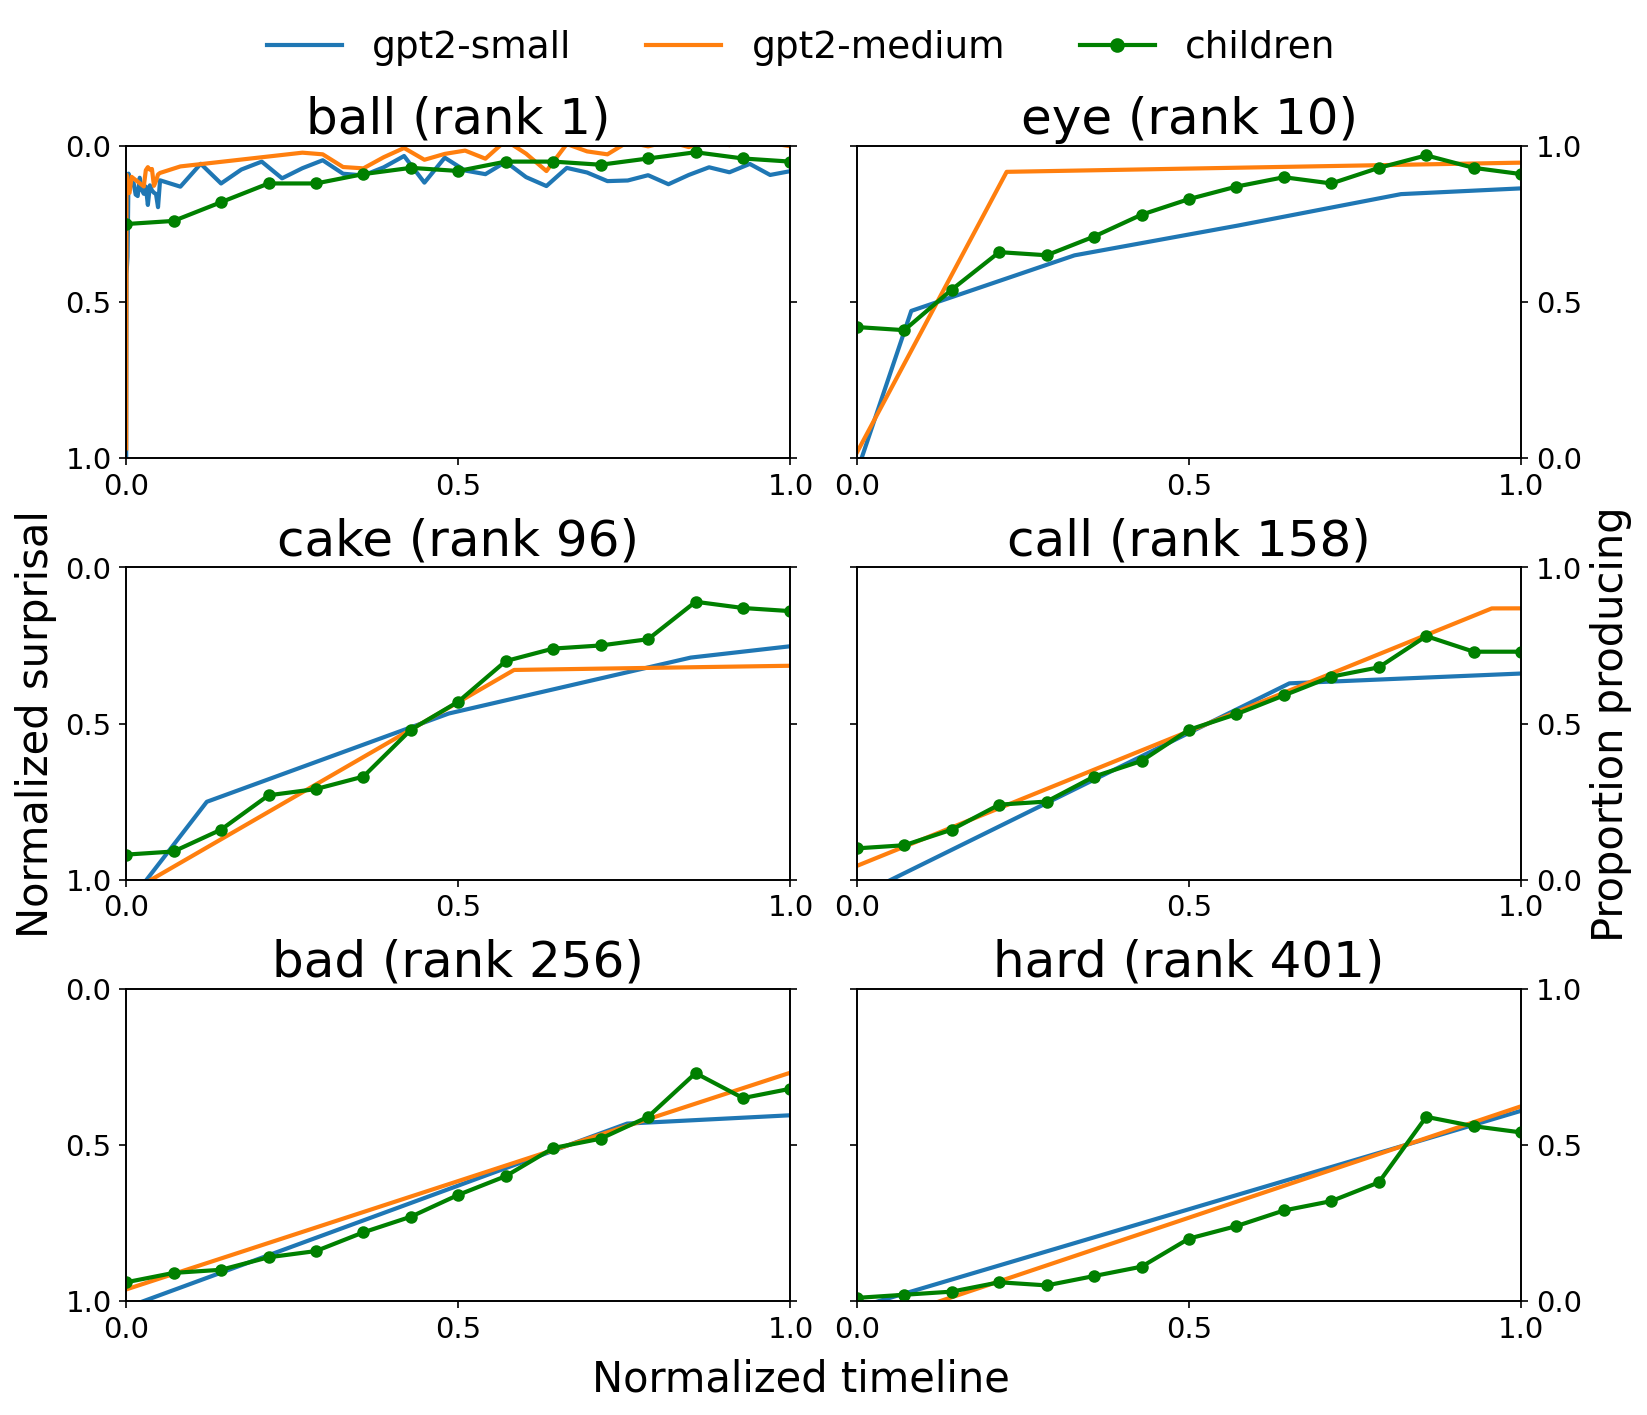
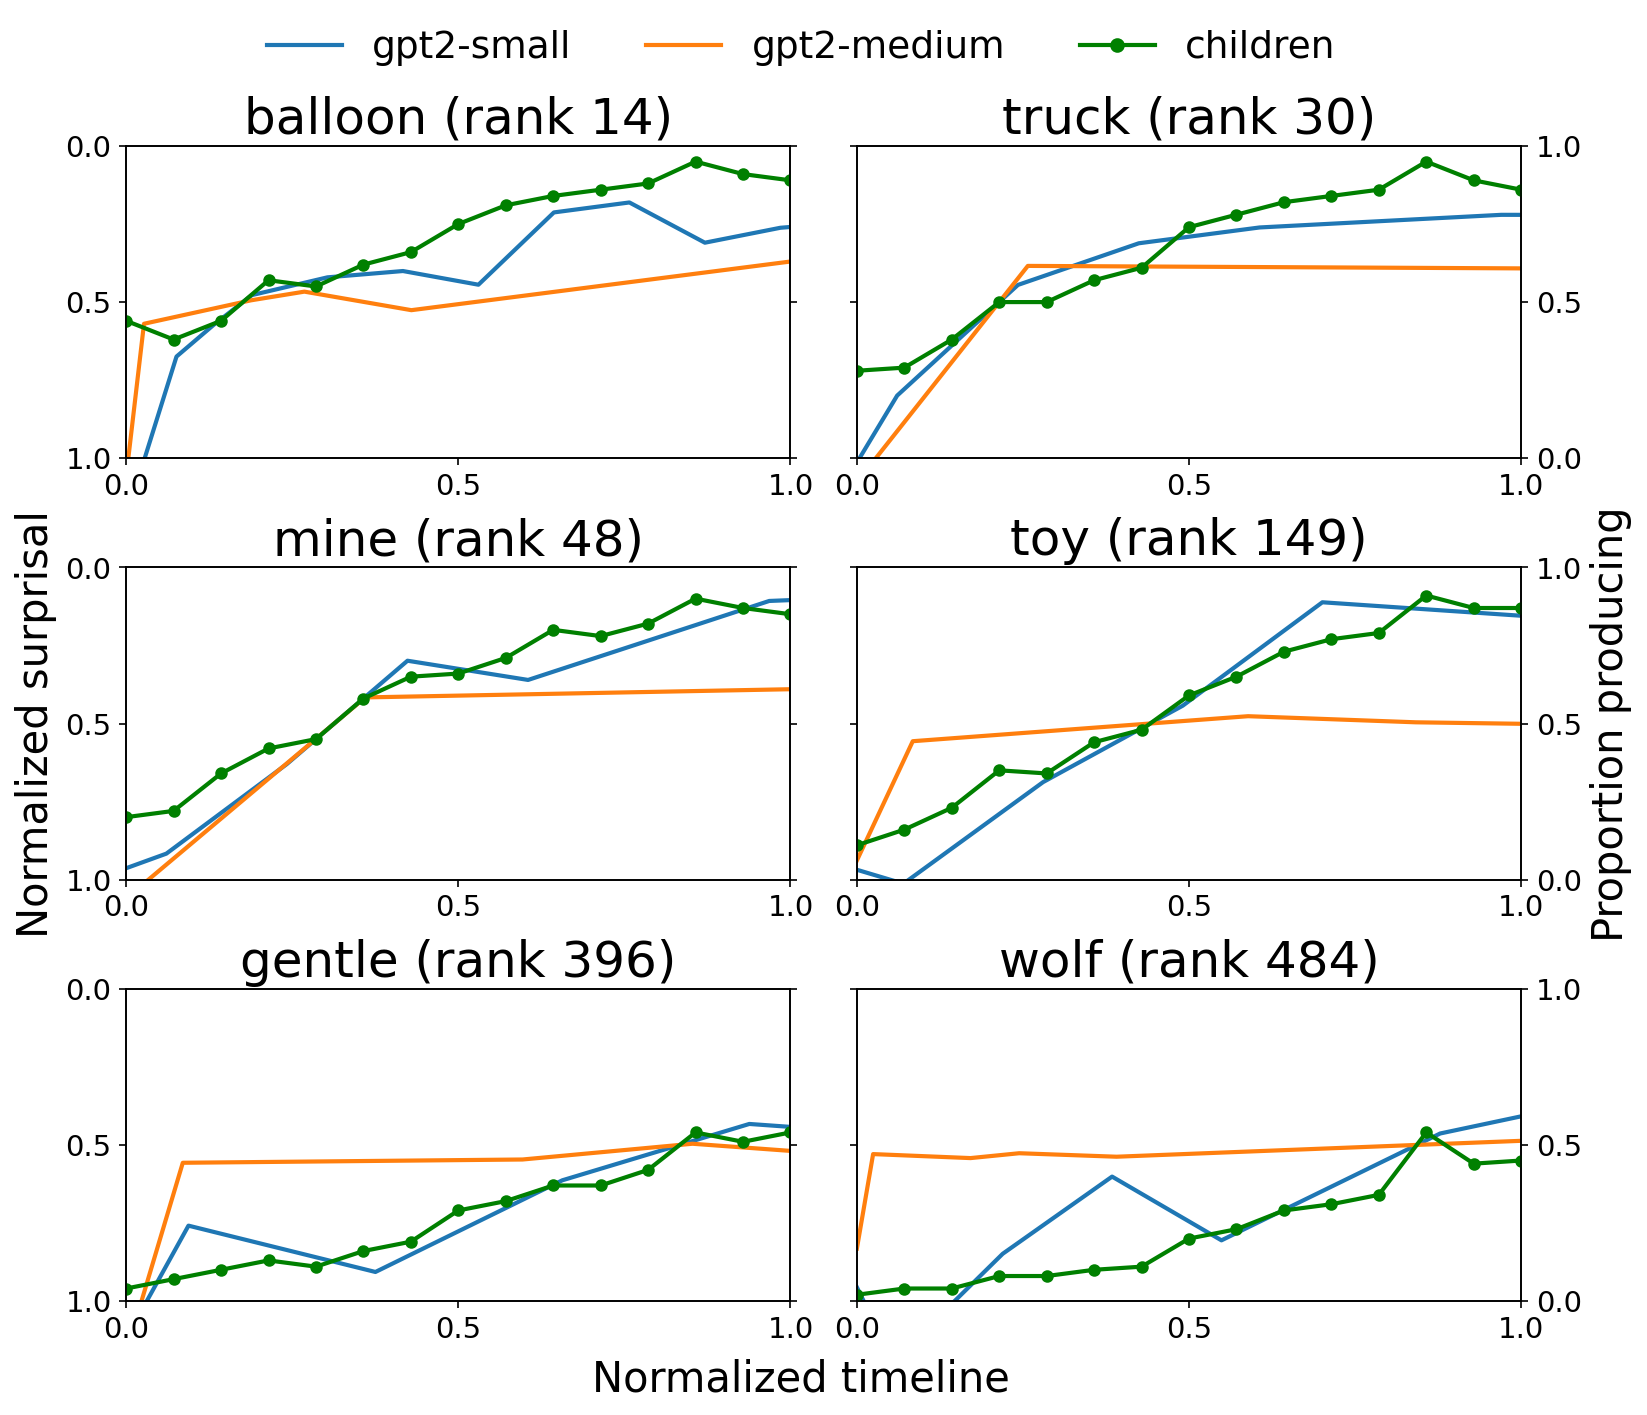
paper figs

diff --git a/src/experiments/plot.py b/src/experiments/plot.py
@@ -426,203 +426,193 @@ def main():
     else:
         months_norm = np.zeros_like(months_arr)
 
-    # for w in simple_ranking:
-    #     if w not in word_to_curve:
-    #         continue
-    #     child_curve = word_to_curve[w]
-    #     if not np.isfinite(child_curve).any():
-    #         continue
-    #     s_small = np.array(small_surpr[w], dtype=float)
-    #     s_medium = np.array(medium_surpr[w], dtype=float)
-    #     if not (np.isfinite(s_small).any() or np.isfinite(s_medium).any()):
-    #         continue
+    for w in simple_ranking:
+        if w not in word_to_curve:
+            continue
+        child_curve = word_to_curve[w]
+        if not np.isfinite(child_curve).any():
+            continue
+        s_small = np.array(small_surpr[w], dtype=float)
+        s_medium = np.array(medium_surpr[w], dtype=float)
+        if not (np.isfinite(s_small).any() or np.isfinite(s_medium).any()):
+            continue
 
-    #     steps_small_arr = np.array(steps_small, dtype=float)
-    #     steps_medium_arr = np.array(steps_medium, dtype=float)
+        steps_small_arr = np.array(steps_small, dtype=float)
+        steps_medium_arr = np.array(steps_medium, dtype=float)
 
-    #     s_small_crop, steps_small_crop, thr_small, idx_cross_small = crop_with_threshold(
-    #         s_small, steps_small_arr, args.baseline_bits, margin_idx
-    #     )
-    #     s_medium_crop, steps_medium_crop, thr_medium, idx_cross_medium = crop_with_threshold(
-    #         s_medium, steps_medium_arr, args.baseline_bits, margin_idx
-    #     )
+        s_small_crop, steps_small_crop, thr_small, idx_cross_small = crop_with_threshold(
+            s_small, steps_small_arr, args.baseline_bits, margin_idx
+        )
+        s_medium_crop, steps_medium_crop, thr_medium, idx_cross_medium = crop_with_threshold(
+            s_medium, steps_medium_arr, args.baseline_bits, margin_idx
+        )
 
-    #     if s_small_crop is None and s_medium_crop is None:
-    #         continue
+        if s_small_crop is None and s_medium_crop is None:
+            continue
 
-    #     fig, axes = plt.subplots(1, 3, figsize=(12, 3))
+        fig, axes = plt.subplots(1, 3, figsize=(12, 3))
 
-    #     if s_small_crop is not None and len(s_small_crop) > 0:
-    #         axes[0].plot(steps_small_crop, s_small_crop, label="gpt2-small")
-    #         if thr_small is not None:
-    #             axes[0].axhline(thr_small, linestyle="--", linewidth=1, color="cornflowerblue")
-    #     if s_medium_crop is not None and len(s_medium_crop) > 0:
-    #         axes[0].plot(steps_medium_crop, s_medium_crop, label="gpt2-medium")
-    #         if thr_medium is not None:
-    #             axes[0].axhline(thr_medium, linestyle="--", linewidth=1, color="orange")
+        if s_small_crop is not None and len(s_small_crop) > 0:
+            axes[0].plot(steps_small_crop, s_small_crop, label="gpt2-small")
+            if thr_small is not None:
+                axes[0].axhline(thr_small, linestyle="--", linewidth=1, color="cornflowerblue")
+        if s_medium_crop is not None and len(s_medium_crop) > 0:
+            axes[0].plot(steps_medium_crop, s_medium_crop, label="gpt2-medium")
+            if thr_medium is not None:
+                axes[0].axhline(thr_medium, linestyle="--", linewidth=1, color="orange")
 
-    #     axes[0].set_xlabel("Step")
-    #     axes[0].set_ylabel("Surprisal (bits)")
-    #     axes[0].set_title(f"{w} - LLM surprisal")
-    #     axes[0].legend()
-    #     axes[0].invert_yaxis()
+        axes[0].set_xlabel("Step")
+        axes[0].set_ylabel("Surprisal (bits)")
+        axes[0].set_title(f"{w} - LLM surprisal")
+        axes[0].legend()
+        axes[0].invert_yaxis()
 
-    #     axes[1].plot(months, child_curve, marker="o")
-    #     axes[1].axhline(0.5, linestyle="--", linewidth=1, color="cornflowerblue")
-    #     axes[1].set_xlabel("Age (months)")
-    #     axes[1].set_ylabel("Proportion producing")
-    #     axes[1].set_ylim(0.0, 1.0)
-    #     axes[1].set_title(f"{w} - Children")
+        axes[1].plot(months, child_curve, marker="o")
+        axes[1].axhline(0.5, linestyle="--", linewidth=1, color="cornflowerblue")
+        axes[1].set_xlabel("Age (months)")
+        axes[1].set_ylabel("Proportion producing")
+        axes[1].set_ylim(0.0, 1.0)
+        axes[1].set_title(f"{w} - Children")
 
-    #     ax3 = axes[2]
-    #     ax3b = ax3.twinx()
+        ax3 = axes[2]
+        ax3b = ax3.twinx()
 
-    #     # Align AoA
-    #     child_aoa_x = None
-    #     if w in child_interp_aoa:
-    #         child_aoa_month = child_interp_aoa[w]
-    #         if months_arr.size > 1:
-    #             child_aoa_x = (child_aoa_month - months_arr.min()) / (months_arr.max() - months_arr.min())
-    #             child_aoa_x = np.clip(child_aoa_x, 0.0, 1.0)
-    #     else:
-    #         child_mask = np.isfinite(child_curve)
-    #         if child_mask.any():
-    #             first_valid_val = child_curve[child_mask][0]
-    #             if first_valid_val >= 0.5:
-    #                 child_aoa_x = 0.0
-    #             else:
-    #                 plt.close(fig)
-    #                 continue
+        # Align AoA
+        child_aoa_x = None
+        if w in child_interp_aoa:
+            child_aoa_month = child_interp_aoa[w]
+            if months_arr.size > 1:
+                child_aoa_x = (child_aoa_month - months_arr.min()) / (months_arr.max() - months_arr.min())
+                child_aoa_x = np.clip(child_aoa_x, 0.0, 1.0)
+        else:
+            child_mask = np.isfinite(child_curve)
+            if child_mask.any():
+                first_valid_val = child_curve[child_mask][0]
+                if first_valid_val >= 0.5:
+                    child_aoa_x = 0.0
+                else:
+                    plt.close(fig)
+                    continue
 
-    #     if child_aoa_x is None:
-    #         plt.close(fig)
-    #         continue
+        if child_aoa_x is None:
+            plt.close(fig)
+            continue
 
-    #     child_mask = np.isfinite(child_curve)
-    #     if child_mask.any():
-    #         ax3b.plot(months_norm[child_mask], child_curve[child_mask], marker="o", color="green", label="children")
+        child_mask = np.isfinite(child_curve)
+        if child_mask.any():
+            ax3b.plot(months_norm[child_mask], child_curve[child_mask], marker="o", color="green", label="children")
 
-    #     # Normalize surprisal curves so threshold is at 0.5
-    #     if thr_small is not None and np.isfinite(s_small).any():
-    #         s_small_max = np.nanmax(s_small)
-    #         s_small_range = s_small_max - thr_small
-    #         if s_small_range > 0:
-    #             s_small_norm = 0.5 + 0.5 * (thr_small - s_small) / s_small_range
-    #         else:
-    #             s_small_norm = np.full_like(s_small, 0.5)
-    #     else:
-    #         s_small_norm = None
+        # Normalize surprisal curves so threshold is at 0.5
+        if thr_small is not None and np.isfinite(s_small).any():
+            s_small_max = np.nanmax(s_small)
+            s_small_range = s_small_max - thr_small
+            if s_small_range > 0:
+                s_small_norm = 0.5 + 0.5 * (thr_small - s_small) / s_small_range
+            else:
+                s_small_norm = np.full_like(s_small, 0.5)
+        else:
+            s_small_norm = None
 
-    #     if thr_medium is not None and np.isfinite(s_medium).any():
-    #         s_medium_max = np.nanmax(s_medium)
-    #         s_medium_range = s_medium_max - thr_medium
-    #         if s_medium_range > 0:
-    #             s_medium_norm = 0.5 + 0.5 * (thr_medium - s_medium) / s_medium_range
-    #         else:
-    #             s_medium_norm = np.full_like(s_medium, 0.5)
-    #     else:
-    #         s_medium_norm = None
+        if thr_medium is not None and np.isfinite(s_medium).any():
+            s_medium_max = np.nanmax(s_medium)
+            s_medium_range = s_medium_max - thr_medium
+            if s_medium_range > 0:
+                s_medium_norm = 0.5 + 0.5 * (thr_medium - s_medium) / s_medium_range
+            else:
+                s_medium_norm = np.full_like(s_medium, 0.5)
+        else:
+            s_medium_norm = None
 
-    #     # Plot normalized surprisal
-    #     x_small_norm = normalize_x_aligned(steps_small_arr, idx_cross_small, child_aoa_x)
-    #     ax3.plot(x_small_norm, s_small_norm, label="gpt2-small")
-    #     x_medium_norm = normalize_x_aligned(steps_medium_arr, idx_cross_medium, child_aoa_x)
-    #     ax3.plot(x_medium_norm, s_medium_norm, label="gpt2-medium")
-    #     ax3.set_ylim(0.0, 1.0)
+        # Plot normalized surprisal
+        x_small_norm = normalize_x_aligned(steps_small_arr, idx_cross_small, child_aoa_x)
+        ax3.plot(x_small_norm, s_small_norm, label="gpt2-small")
+        x_medium_norm = normalize_x_aligned(steps_medium_arr, idx_cross_medium, child_aoa_x)
+        ax3.plot(x_medium_norm, s_medium_norm, label="gpt2-medium")
+        ax3.set_ylim(0.0, 1.0)
 
-    #     ax3.set_xlim(0.0, 1.0)
-    #     ax3.set_xlabel("Normalized timeline")
-    #     ax3.set_ylabel("Surprisal (bits)")
-    #     ax3b.set_ylabel("Proportion producing")
-    #     ax3b.set_ylim(0.0, 1.0)
-    #     ax3.set_title(f"{w} - Normalized aligned overlay")
+        ax3.set_xlim(0.0, 1.0)
+        ax3.set_xlabel("Normalized timeline")
+        ax3.set_ylabel("Surprisal (bits)")
+        ax3b.set_ylabel("Proportion producing")
+        ax3b.set_ylim(0.0, 1.0)
+        ax3.set_title(f"{w} - Normalized aligned overlay")
 
-    #     handles1, labels1 = ax3.get_legend_handles_labels()
-    #     handles2, labels2 = ax3b.get_legend_handles_labels()
-    #     if handles1 or handles2:
-    #         ax3.legend(handles1 + handles2, labels1 + labels2, loc="best")
+        handles1, labels1 = ax3.get_legend_handles_labels()
+        handles2, labels2 = ax3b.get_legend_handles_labels()
+        if handles1 or handles2:
+            ax3.legend(handles1 + handles2, labels1 + labels2, loc="best")
 
-    #     fig.tight_layout()
-    #     safe_w = re.sub(r"[^A-Za-z0-9]+", "_", w).strip("_")
-    #     out_path_word = os.path.join(args.out_dir, f"word_{safe_w}_child_vs_llm_surprisal.png")
-    #     fig.savefig(out_path_word, bbox_inches="tight")
-    #     plt.close(fig)
+        fig.tight_layout()
+        safe_w = re.sub(r"[^A-Za-z0-9]+", "_", w).strip("_")
+        out_path_word = os.path.join(args.out_dir, f"word_{safe_w}_child_vs_llm_surprisal.png")
+        fig.savefig(out_path_word, bbox_inches="tight")
+        plt.close(fig)
 
 
-    #     # MSE
-    #     mse_results = []
+        # MSE
+        mse_results = []
             
-    #     # Create interpolation functions and evaluate at 100 points
-    #     x_eval = np.linspace(0, 1, 100)
+        # Create interpolation functions and evaluate at 100 points
+        x_eval = np.linspace(0, 1, 100)
         
-    #     # Interpolate small model
-    #     if s_small_norm is not None:
-    #         x_small_norm_interp = normalize_x_aligned(steps_small_arr, idx_cross_small, child_aoa_x)
-    #         mask_small = np.isfinite(s_small_norm) & np.isfinite(x_small_norm_interp)
-    #         if mask_small.sum() >= 2:
-    #             s_small_interp = np.interp(x_eval, x_small_norm_interp[mask_small], s_small_norm[mask_small])
-    #         else:
-    #             s_small_interp = None
-    #     else:
-    #         s_small_interp = None
+        mask_small = np.isfinite(s_small_norm) & np.isfinite(x_small_norm)
+        if mask_small.sum() >= 2:
+            s_small_interp = np.interp(x_eval, x_small_norm[mask_small], s_small_norm[mask_small])
+        else:
+            s_small_interp = None
         
-    #     # Interpolate medium model
-    #     if s_medium_norm is not None:
-    #         x_medium_norm_interp = normalize_x_aligned(steps_medium_arr, idx_cross_medium, child_aoa_x)
-    #         mask_medium = np.isfinite(s_medium_norm) & np.isfinite(x_medium_norm_interp)
-    #         if mask_medium.sum() >= 2:
-    #             s_medium_interp = np.interp(x_eval, x_medium_norm_interp[mask_medium], s_medium_norm[mask_medium])
-    #         else:
-    #             s_medium_interp = None
-    #     else:
-    #         s_medium_interp = None
+        mask_medium = np.isfinite(s_medium_norm) & np.isfinite(x_medium_norm)
+        if mask_medium.sum() >= 2:
+            s_medium_interp = np.interp(x_eval, x_medium_norm[mask_medium], s_medium_norm[mask_medium])
+        else:
+            s_medium_interp = None
         
-    #     # Interpolate child curve
-    #     if child_mask.sum() >= 2:
-    #         child_interp = np.interp(x_eval, months_norm[child_mask], child_curve[child_mask])
-    #     else:
-    #         child_interp = None
+        # Interpolate child curve
+        if child_mask.sum() >= 2:
+            child_interp = np.interp(x_eval, months_norm[child_mask], child_curve[child_mask])
+        else:
+            child_interp = None
         
-    #     # Calculate MSEs
-    #     mse_small_child = None
-    #     mse_medium_child = None
-    #     mse_small_medium = None
+        # Calculate MSEs
+        mse_small_child = None
+        mse_medium_child = None
+        mse_small_medium = None
 
-    #     # Invert surprisal so it increases
-    #     if s_small_interp is not None and child_interp is not None:
-    #         s_small_interp_inverted = 1.0 - s_small_interp
-    #         mse_small_child = np.mean((s_small_interp_inverted - child_interp) ** 2)
+        # Invert surprisal so it increases
+        if s_small_interp is not None and child_interp is not None:
+            s_small_interp_inverted = 1.0 - s_small_interp
+            mse_small_child = np.mean((s_small_interp_inverted - child_interp) ** 2)
 
-    #     if s_medium_interp is not None and child_interp is not None:
-    #         s_medium_interp_inverted = 1.0 - s_medium_interp
-    #         mse_medium_child = np.mean((s_medium_interp_inverted - child_interp) ** 2)
+        if s_medium_interp is not None and child_interp is not None:
+            s_medium_interp_inverted = 1.0 - s_medium_interp
+            mse_medium_child = np.mean((s_medium_interp_inverted - child_interp) ** 2)
 
-    #     if s_small_interp is not None and s_medium_interp is not None:
-    #         mse_small_medium = np.mean((s_small_interp - s_medium_interp) ** 2)
+        if s_small_interp is not None and s_medium_interp is not None:
+            mse_small_medium = np.mean((s_small_interp - s_medium_interp) ** 2)
 
-    #     mse_results.append({
-    #         'word': w,
-    #         'mse_small_child': mse_small_child,
-    #         'mse_medium_child': mse_medium_child,
-    #         'mse_small_medium': mse_small_medium
-    #     })
+        mse_results.append({
+            'word': w,
+            'mse_small_child': mse_small_child,
+            'mse_medium_child': mse_medium_child,
+            'mse_small_medium': mse_small_medium
+        })
 
-    #     # Save MSE csv
-    #     if mse_results:
-    #         mse_df = pd.DataFrame(mse_results)
-    #         mse_csv_path = os.path.join(args.out_dir, "mse_results.csv")
-    #         if os.path.exists(mse_csv_path):
-    #             existing_df = pd.read_csv(mse_csv_path)
+        # Save MSE csv
+        if mse_results:
+            mse_df = pd.DataFrame(mse_results)
+            mse_csv_path = os.path.join("figs_paper", "mse_results.csv")
+            if os.path.exists(mse_csv_path):
+                existing_df = pd.read_csv(mse_csv_path)
 
-    #             if not existing_df.empty and not mse_df.empty:
-    #                 mse_df = pd.concat([existing_df, mse_df], ignore_index=True)
-    #             elif not existing_df.empty:
-    #                 mse_df = existing_df
-    #         mse_df.to_csv(mse_csv_path, index=False)
+                if not existing_df.empty and not mse_df.empty:
+                    mse_df = pd.concat([existing_df, mse_df], ignore_index=True)
+                elif not existing_df.empty:
+                    mse_df = existing_df
+            mse_df.to_csv(mse_csv_path, index=False)
 
 
     # Merged fig for paper
-    ranks = [1, 8, 96, 158, 256, 401]
+    ranks = [14, 30, 48, 149, 396, 484]
     fig, axes = plt.subplots(3, 2, figsize=(12, 10), gridspec_kw={'hspace': 0.35, 'wspace': 0.1})
     axes = axes.flatten()
     
@@ -739,7 +729,7 @@ def main():
     fig.legend(handles=handles1, loc='upper center', ncol=3, 
               bbox_to_anchor=(0.5, 0.98), fontsize=18, frameon=False)
     
-    merged_path = os.path.join(args.out_dir, "merged_word_trajectories.png")
+    merged_path = os.path.join("figs_paper", "merged_word_trajectories.png")
     fig.savefig(merged_path, bbox_inches="tight", dpi=150)
     plt.close(fig)
     
